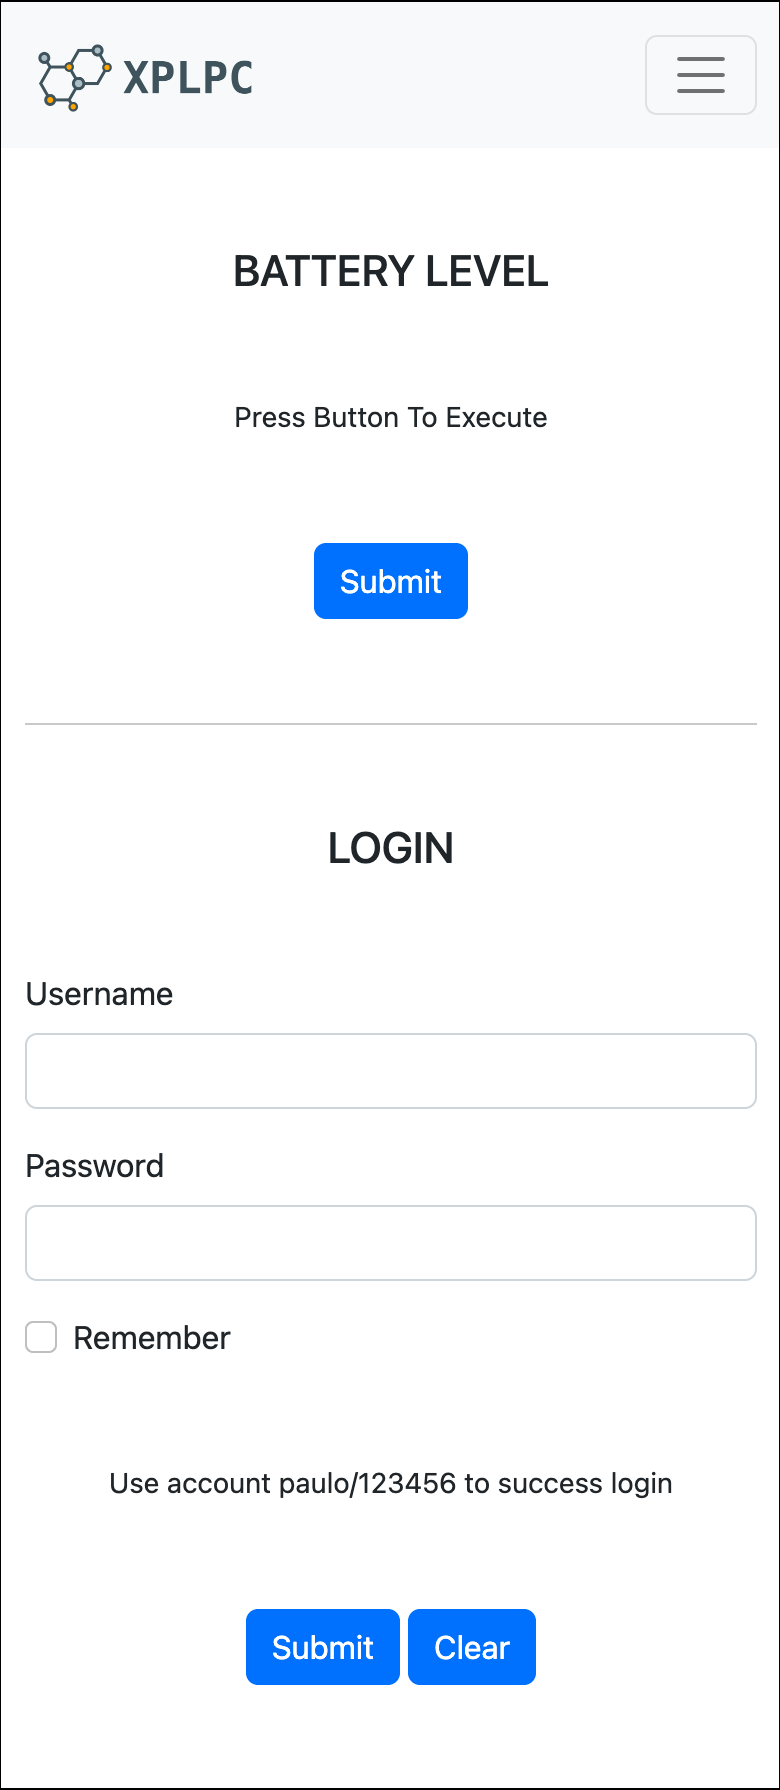
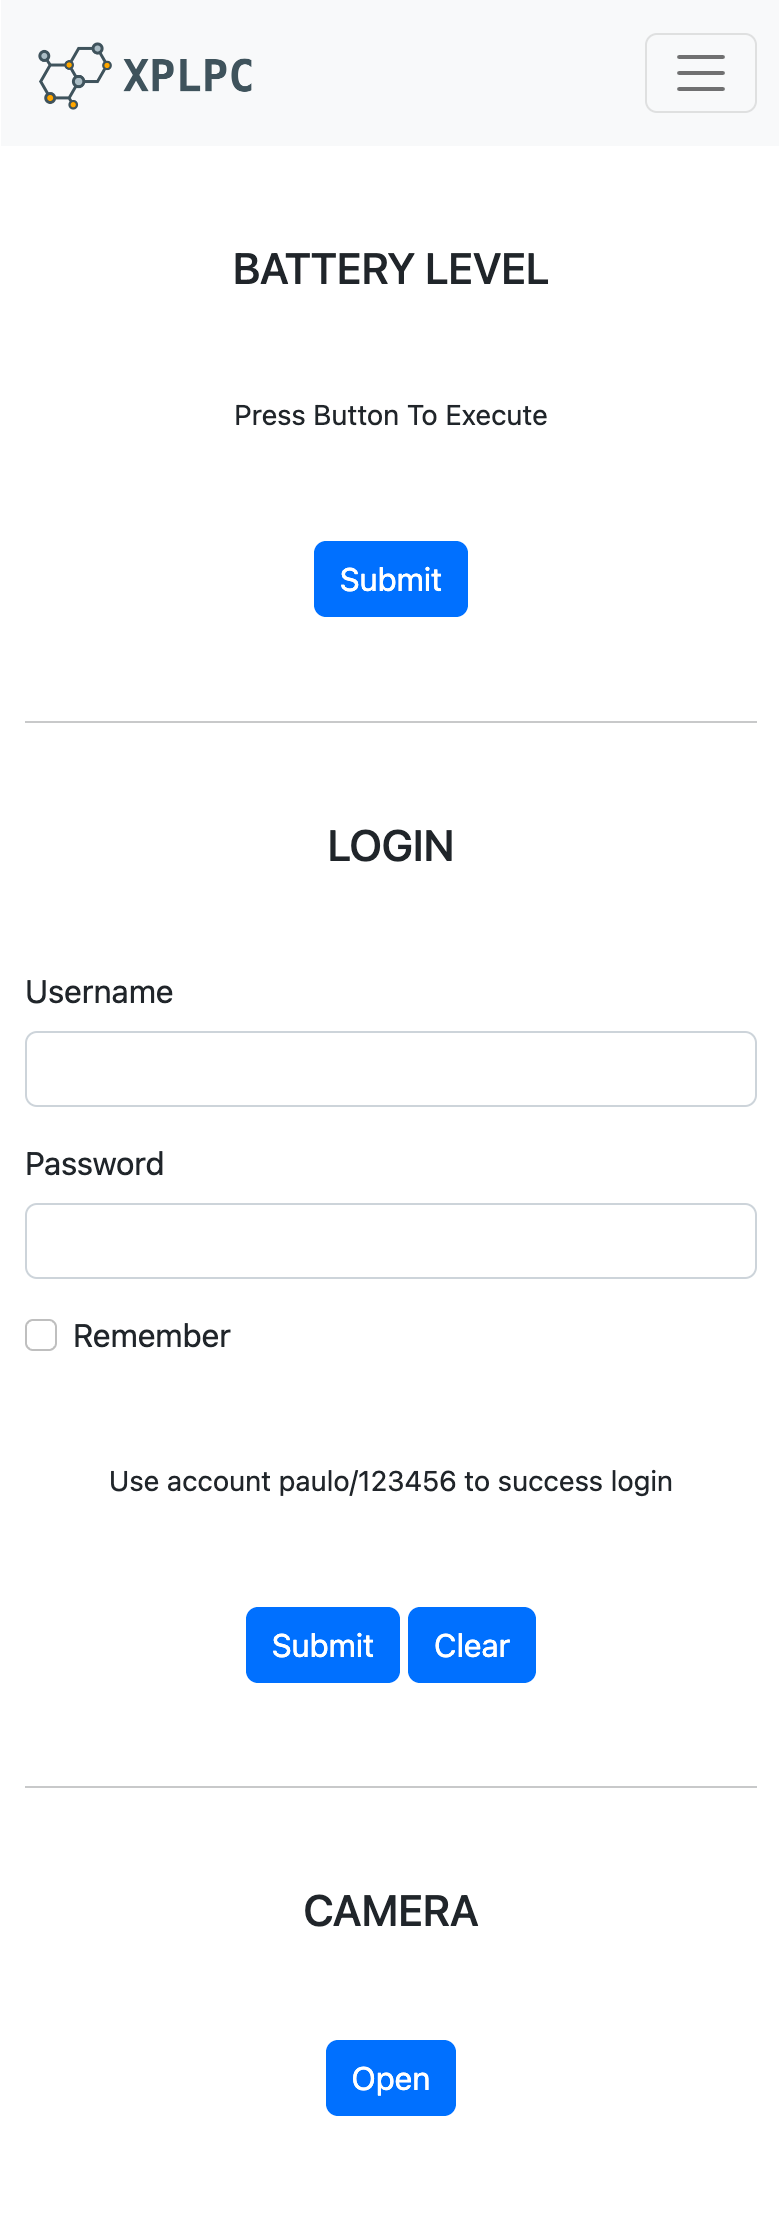
add wasm camera permission request

diff --git a/wasm/sample/src/components/widgets/VueCamera.vue b/wasm/sample/src/components/widgets/VueCamera.vue
@@ -7,6 +7,10 @@ ref="video" :width="width" :height="height" :src="source" :autoplay="autoplay"
 
             <img v-if="visible" ref="preview" class="camera-image" />
         </div>
+
+        <div v-if="visible" class="camera-info">
+            <p>{{ cameraInfo }}</p>
+        </div>
     </div>
 </template>
 
@@ -61,7 +65,8 @@ export default {
             cameraList: [],
             deviceId: "",
             visible: false,
-            ctx: null
+            ctx: null,
+            cameraInfo: "XPLPC"
         };
     },
     watch: {
@@ -90,6 +95,8 @@ export default {
 
                 // some browsers just don't implement it, so return a rejected promise with an error to keep a consistent interface
                 if (!getUserMedia) {
+                    Log.d("[Camera : legacyGetUserMediaSupport] The method getUserMedia is not implemented in this browser");
+
                     return Promise.reject(
                         new Error("[Camera : legacyGetUserMediaSupport] The method getUserMedia is not implemented in this browser")
                     );
@@ -194,8 +201,10 @@ export default {
             }
         },
         // start the video
-        start() {
+        async start() {
             Log.d("[Camera : start]");
+
+            await navigator.mediaDevices.getUserMedia({audio: false, video: true})
 
             if (!this.deviceId) {
                 this.loadCameraList();
@@ -235,6 +244,8 @@ export default {
                 var ptr = XPLPC.shared().module._malloc(dataSize);
                 XPLPC.shared().module.HEAPU8.set(dataBuffer, ptr);
 
+                var startTime = performance.now();
+
                 const request = new XRequest(
                     "sample.image.grayscale.pointer",
                     new XParam("pointer", ptr),
@@ -244,6 +255,9 @@ export default {
 
                 await XRemoteClient.call(request);
 
+                var elapsedTime = performance.now();
+                var duration = elapsedTime - startTime;
+
                 var processedData = new Uint8ClampedArray(XPLPC.shared().module.HEAPU8.buffer, ptr, dataSize);
                 this.ctx.putImageData(new ImageData(processedData, this.canvas.width, this.canvas.height), 0, 0);
 
@@ -251,6 +265,8 @@ export default {
                 preview.src = this.canvas.toDataURL();
 
                 XPLPC.shared().module._free(ptr);
+
+                this.cameraInfo = "Time to process: " + (duration / 1000).toFixed(3) + " seconds\nImage size: " + (dataSize / 1024) + " kb";
             }, 16);
         },
         // test access
@@ -347,5 +363,19 @@ export default {
 .camera-image {
     max-width: 240px;
     max-height: 320px;
+}
+
+.camera-info {
+    background: #000000;
+    color: #ffffff;
+    padding: 6px;
+    vertical-align: middle;
+    border-radius: 30px;
+    margin-top: 20px;
+}
+
+.camera-info p {
+    margin: 0;
+    white-space: pre-line;
 }
 </style>
